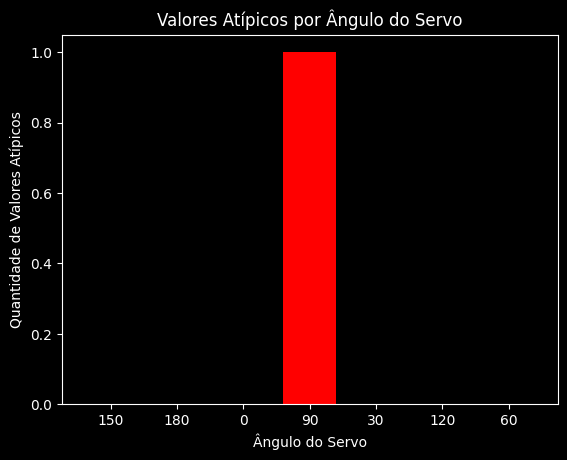
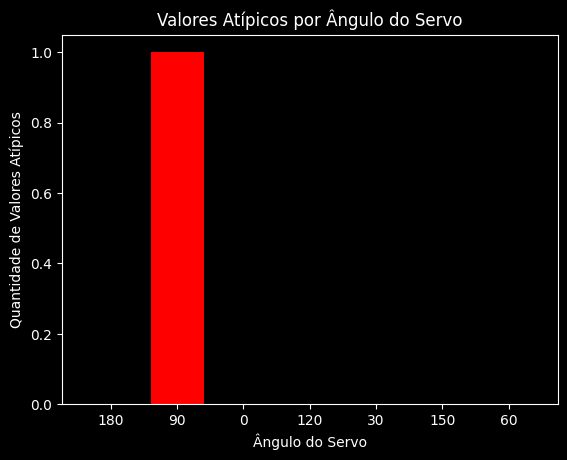
arumando prorama tratando_testeH

Changed region(s): [[0.4797, 0.0913, 0.5996, 0.9435], [0.2399, 0.0913, 0.3598, 0.9435], [0.1799, 0.8826, 0.2099, 0.9435]]

diff --git a/tratando_testeH.py b/tratando_testeH.py
@@ -1,66 +1,81 @@
+# Importando bibliotecas necessárias
 from pymongo import MongoClient
-import pandas as pd
+import numpy as np
+from scipy import stats
+import matplotlib.pyplot as plt
 
 # Conectando ao MongoDB
 client = MongoClient("mongodb+srv://tiagodois0:80432162@cluster0.zxazakw.mongodb.net/test")
-db = client.cluster0  # Escolha o banco de dados do projeto
+db = client.cluster0  # escolha do banco de dados de acesso do projeto
 
-# Coleção com os valores da média móvel
-colecao_media_movel = db["valores_media_movel"]
-
-# Coleção com os resultados do teste H (tratando_testeH)
-colecao_tratando_testeH = db["tratando_testeH"]
-
-# Função para verificar se um valor está dentro dos limites de ruído permitidos
-def verificar_limite_ruido(valor, periodo):
-    limite_diurno = 55  # Limite diurno em decibéis
-    limite_noturno = 50  # Limite noturno em decibéis
-
-    if periodo == "diurno":
-        return valor <= limite_diurno
-    elif periodo == "noturno":
-        return valor <= limite_noturno
-
-# Função para verificar se um valor anormal viola a legislação de ruído
-def verificar_violacao_legislacao(angulo_servo, media_movel, tempo):
-    if 7 <= tempo.hour < 20:
-        periodo = "diurno"
-    else:
-        # Verifique se o próximo dia é domingo ou feriado
-        proximo_dia = tempo + pd.DateOffset(days=1)
-        if proximo_dia.weekday() == 6 or proximo_dia in feriados:
-            if 20 <= tempo.hour < 9:
-                periodo = "noturno"
-        else:
-            if 20 <= tempo.hour < 7:
-                periodo = "noturno"
-
-    if verificar_limite_ruido(media_movel, periodo):
-        return f"Ângulo {angulo_servo} às {tempo}: {media_movel} dB no período {periodo} viola a legislação"
-    else:
-        return None
-
-# Iterar pela coleção de valores da média móvel
-for doc in colecao_media_movel.find():
-    angulo_servo = doc["valor_servo"]
-    media_movel = doc["media_movel"]
-    tempo = doc["tempo"]
+# iniciando a função para analizar as anormalia o intervalo amostral, percental e a posição levando em conta o zcalq
+def calcular_percentagem_anomalias(dados_sensor, z_critico):
+    angulos_servo = set(dado["valor_servo"] for dado in dados_sensor)
+    contagens_anomalias = {angulo: [] for angulo in angulos_servo}
     
-    # Verificar se há algum valor anormal na coleção tratando_testeH no mesmo horário
-    query = {
-        "servo_angle": angulo_servo,
-        "anomalous_values.tempo": tempo
-    }
-    resultado = colecao_tratando_testeH.find_one(query)
+    for dado in dados_sensor:
+        escore_z = abs((dado["valor_sensor"] - media) / desvio_padrao)
+        if escore_z > z_critico:
+            contagens_anomalias[dado["valor_servo"]].append(dado)
     
-    if resultado:
-        anomalous_values = resultado["anomalous_values"]
-        
-        for anomalous_value in anomalous_values:
-            tempo_anomalia = anomalous_value["tempo"]
-            
-            # Verificar se o valor anormal também viola a legislação
-            violacao = verificar_violacao_legislacao(angulo_servo, media_movel, tempo_anomalia)
-            
-            if violacao:
-                print(violacao)
+    return contagens_anomalias
+
+# selecionando a coleção que tem os valores do sensor, tempo e angulo do servo
+colecao = db["valores_enviados_pela_esp"] 
+
+# Restrigindo o intervalo de coleta das ultimas 70 amsostras do banco de dados
+dados_sensor = list(colecao.find().sort([("tempo", -1)]).limit(70))
+
+# convertendo os valores do sensor de string para float
+for dado in dados_sensor:
+    dado["valor_sensor"] = float(dado["valor_sensor"])
+
+# Calculando media e descio padrão
+media = np.mean([dado["valor_sensor"] for dado in dados_sensor])  # media
+desvio_padrao = np.std([dado["valor_sensor"] for dado in dados_sensor])  # desvio padrão
+
+#definindo o valor de alfa
+alfa = 0.1
+
+# Calcula o z critico
+z_critico = stats.norm.ppf(1 - alfa / 2)
+
+# Calcula as anomalias nas últimas 70 amostras
+anomalous_values_by_angle = calcular_percentagem_anomalias(dados_sensor, z_critico)
+
+# Crie uma nova coleção chamada "tratando_testeH"
+tratando_testeH = db["tratando_testeH"]
+
+# Calcula a média das anomalias
+medias_anomalias = {angulo: np.mean([dado["valor_sensor"] for dado in anomalous_values]) for angulo, anomalous_values in anomalous_values_by_angle.items()}
+
+#Armazena os resultados na nova coleção
+for angulo, anomalous_values in anomalous_values_by_angle.items():
+    percentagem = (len(anomalous_values) / 10) * 100
+    print(f"Servo Angle {angulo}: {percentagem:.2f}% anomalies")
+    print("Anomalous Values:")
+    for anomalous_value in anomalous_values:
+        print(anomalous_value)
+    
+    # criando uma nova coleção para inserir os valores significativos da análise do testeH em função da posição do servo
+    tratando_testeH.insert_one({
+        "servo_angle": angulo,
+        "media_anomalias": medias_anomalias[angulo],
+        "percentage_anomalies": percentagem,
+        "anomalous_values": anomalous_values
+    })
+
+# criando gráfico para ver a taxa de anormalidade em um intervalo amostral de 70 amostras e um função da podição do servo
+angulos = list(anomalous_values_by_angle.keys())
+percentagens = [(len(values) / 10) * 100 for values in anomalous_values_by_angle.values()]
+
+plt.bar(angulos, percentagens)
+plt.xlabel("Angulo do Servo")
+plt.ylabel("Porcentagem de valores anormais (%)")
+plt.title("Porcentagem de valores anormais por angulo do servo")
+
+# Adiciona a média sobre as barras
+for i, valor in enumerate(percentagens):
+    plt.text(angulos[i], valor, f"{medias_anomalias[angulos[i]]:.2f}", ha='center', va='bottom')
+
+plt.show()

diff --git a/fis_med.py b/fis_med.py
@@ -1,0 +1,129 @@
+# Importando bibliotecas necessárias
+from pymongo import MongoClient
+import numpy as np
+from scipy import stats
+import matplotlib.pyplot as plt
+from matplotlib.dates import DateFormatter
+import pandas as pd
+from datetime import timedelta
+
+# Conectando ao MongoDB
+client = MongoClient("mongodb+srv://tiagodois0:80432162@cluster0.zxazakw.mongodb.net/test")
+db = client.cluster0  # escolha do banco de dados de acesso do projeto
+
+# iniciando a função para analisar as anomalias no intervalo amostral, percentual e a posição levando em conta o z-calq
+def calcular_percentagem_anomalias(dados_sensor, z_critico):
+    angulos_servo = set(dado["valor_servo"] for dado in dados_sensor)
+    contagens_anomalias = {angulo: [] for angulo in angulos_servo}
+    
+    for dado in dados_sensor:
+        escore_z = abs((dado["valor_sensor"] - media) / desvio_padrao)
+        if escore_z > z_critico:
+            contagens_anomalias[dado["valor_servo"]].append(dado)
+    
+    return contagens_anomalias
+
+# selecionando a coleção que tem os valores do sensor, tempo e ângulo do servo
+colecao = db["valores_enviados_pela_esp"]
+
+# Restringindo o intervalo de coleta das últimas 70 amostras do banco de dados
+dados_sensor = list(colecao.find().sort([("tempo", -1)]).limit(70))
+
+# convertendo os valores do sensor de string para float
+for dado in dados_sensor:
+    dado["valor_sensor"] = float(dado["valor_sensor"])
+
+# Calculando média e desvio padrão
+media = np.mean([dado["valor_sensor"] for dado in dados_sensor])
+desvio_padrao = np.std([dado["valor_sensor"] for dado in dados_sensor])
+
+# definindo o valor de alfa
+alfa = 0.1
+
+# Calcula o z crítico
+z_critico = stats.norm.ppf(1 - alfa / 2)
+
+# Calcula as anomalias nas últimas 70 amostras
+anomalous_values_by_angle = calcular_percentagem_anomalias(dados_sensor, z_critico)
+
+# Crie uma nova coleção chamada "tratando_testeH"
+tratando_testeH = db["tratando_testeH"]
+
+# Armazena os resultados na nova coleção
+for angulo, anomalous_values in anomalous_values_by_angle.items():
+    percentagem = (len(anomalous_values) / 10) * 100
+    print(f"Servo Angle {angulo}: {percentagem:.2f}% anomalies")
+    print("Anomalous Values:")
+    for anomalous_value in anomalous_values:
+        print(anomalous_value)
+    
+    # criando uma nova coleção para inserir os valores significativos da análise do testeH em função da posição do servo
+    tratando_testeH.insert_one({
+        "servo_angle": angulo,
+        "percentage_anomalies": percentagem,
+        "anomalous_values": anomalous_values
+    })
+
+# criando gráfico para ver a taxa de anomalia em um intervalo amostral de 70 amostras em função da posição do servo
+angulos = list(anomalous_values_by_angle.keys())
+percentagens = [len(values) / 10 * 100 for values in anomalous_values_by_angle.values()]
+
+plt.bar(angulos, percentagens)
+plt.xlabel("Ângulo do Servo")
+plt.ylabel("Porcentagem de valores anormais (%)")
+plt.title("Porcentagem de valores anormais por ângulo do servo")
+
+# Usando um estilo de gráfico de fundo escuro
+plt.style.use('dark_background')
+
+# Criando e configurando o gráfico
+plt.figure(figsize=(10, 6))
+
+# Variáveis locais para receber valores do sensor, tempo e ângulo do servo no MongoDB
+sensor_data = []
+timestamps = []  # Adicione essa linha
+servo_angles = []
+rolling_window = 10  # Janela para a média móvel
+
+for doc in colecao.find().sort("tempo", 1):
+    sensor_value = float(doc["valor_sensor"])
+    timestamp = pd.to_datetime(doc["tempo"])
+    servo_angle = float(doc["valor_servo"])
+
+    sensor_data.append(sensor_value)
+    timestamps.append(timestamp)  # Adicione essa linha
+    servo_angles.append(servo_angle)
+
+# Calculando a média móvel em função do tempo
+
+# Escolha o intervalo de tempo desejado para a média móvel
+intervalo_de_tempo = timedelta(seconds=70)  # Intervalo de 70 segundos
+
+# Crie listas para armazenar os valores do sensor e as anomalias dentro do intervalo de tempo
+sensor_data_in_interval = []
+anomalous_data_in_interval = []
+
+# Itere pelas leituras do sensor e das anomalias
+for timestamp, sensor_value in zip(timestamps, sensor_data):
+    sensor_data_in_interval.append(sensor_value)
+
+# Calculando a média móvel para os valores do sensor no intervalo de 70 segundos
+sensor_data_avg_in_interval = np.convolve(sensor_data_in_interval, np.ones(rolling_window) / rolling_window, mode='same')
+
+# Plotando os valores do sensor e a média móvel
+plt.plot(timestamps, sensor_data, marker='o', linestyle='-', markersize=2, label='Valor do Sensor', color='lightblue')
+plt.plot(timestamps, sensor_data_avg_in_interval, linestyle='-', label=f'Média (intervalo_amostral=70s)', color='red')
+
+# Configurando o gráfico
+plt.xlabel('Tempo')
+plt.ylabel('Valor do Sensor')
+plt.title('Valores do Sensor ao Longo do Tempo')
+plt.gca().xaxis.set_major_formatter(DateFormatter("%Y-%m-%d %H:%M:%S"))
+plt.xticks(rotation=45)
+plt.legend()
+
+# Salvar o gráfico em um arquivo
+plt.savefig('templates/IMG_graficos/media_movel.png', bbox_inches='tight')
+
+# Exibir o gráfico na tela
+plt.show()

diff --git a/fiscalizando_teste.py b/fiscalizando_teste.py
@@ -1,0 +1,31 @@
+from pymongo import MongoClient
+
+# Conectar ao banco de dados MongoDB
+client = MongoClient("mongodb+srv://tiagodois0:80432162@cluster0.zxazakw.mongodb.net/test")
+db = client.cluster0  # Substitua pelo nome correto do banco de dados
+
+# Coleção onde os valores da média móvel são armazenados
+collection = db["valores_media_movel"]
+
+# Definir os limites de ruído permitidos pela legislação em dB
+limite_diurno = 50
+limite_noturno = 45
+
+# Recuperar os últimos 100 valores da média móvel do banco de dados
+valores_media_movel = [doc["media_movel"] for doc in collection.find().sort("tempo", -1).limit(100)]
+
+# Função para verificar se o valor da média móvel excede o limite atual
+def verificar_limite(valor, limite):
+    return valor > limite
+
+# Verificar o limite com base no horário atual
+# Neste exemplo, consideramos um horário fixo para a análise
+limite_atual = limite_diurno  # Você pode ajustar o limite com base na hora atual, se necessário
+
+# Realizar a análise e imprimir os resultados
+for valor in valores_media_movel:
+    excede_limite = verificar_limite(valor, limite_atual)
+    if excede_limite:
+        print(f"Valor da média móvel excede o limite ({limite_atual} dB). Valor atual: {valor} dB")
+    else:
+        print(f"Valor da média móvel está dentro do limite ({limite_atual} dB). Valor atual: {valor} dB")
